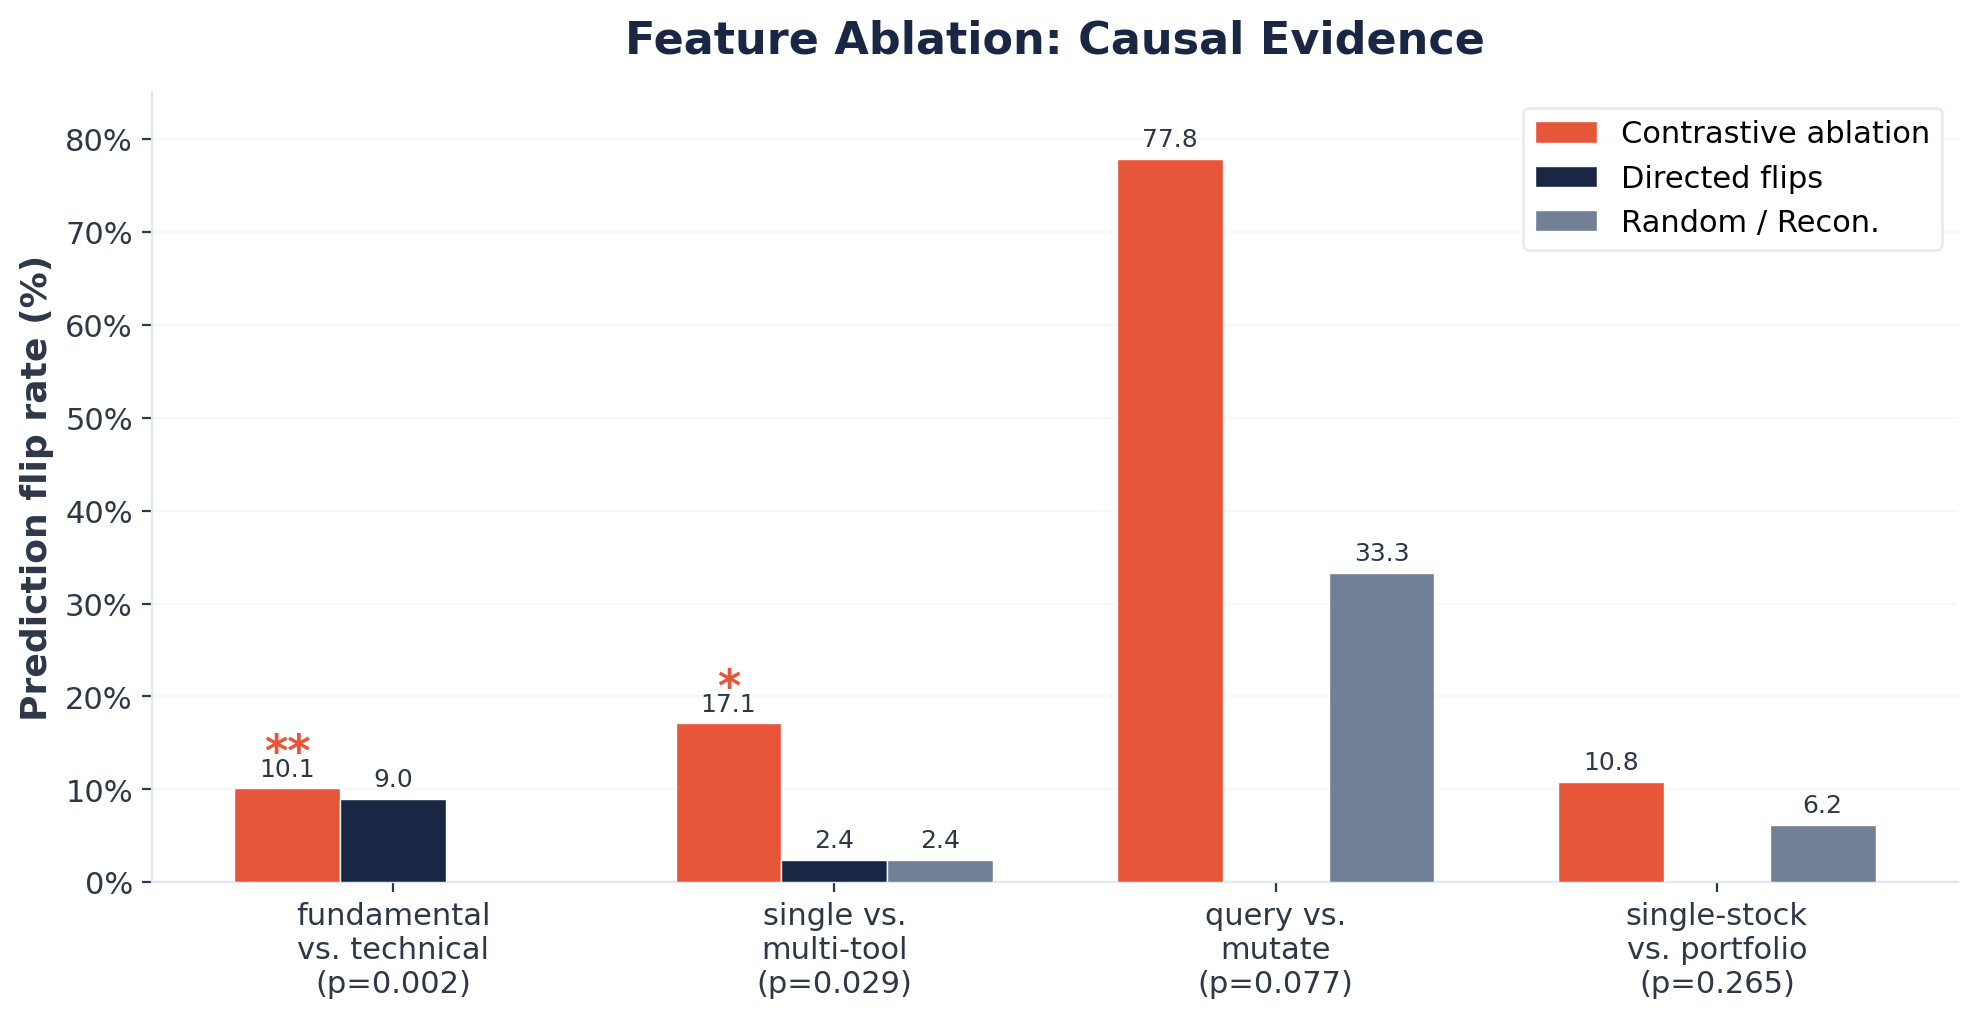
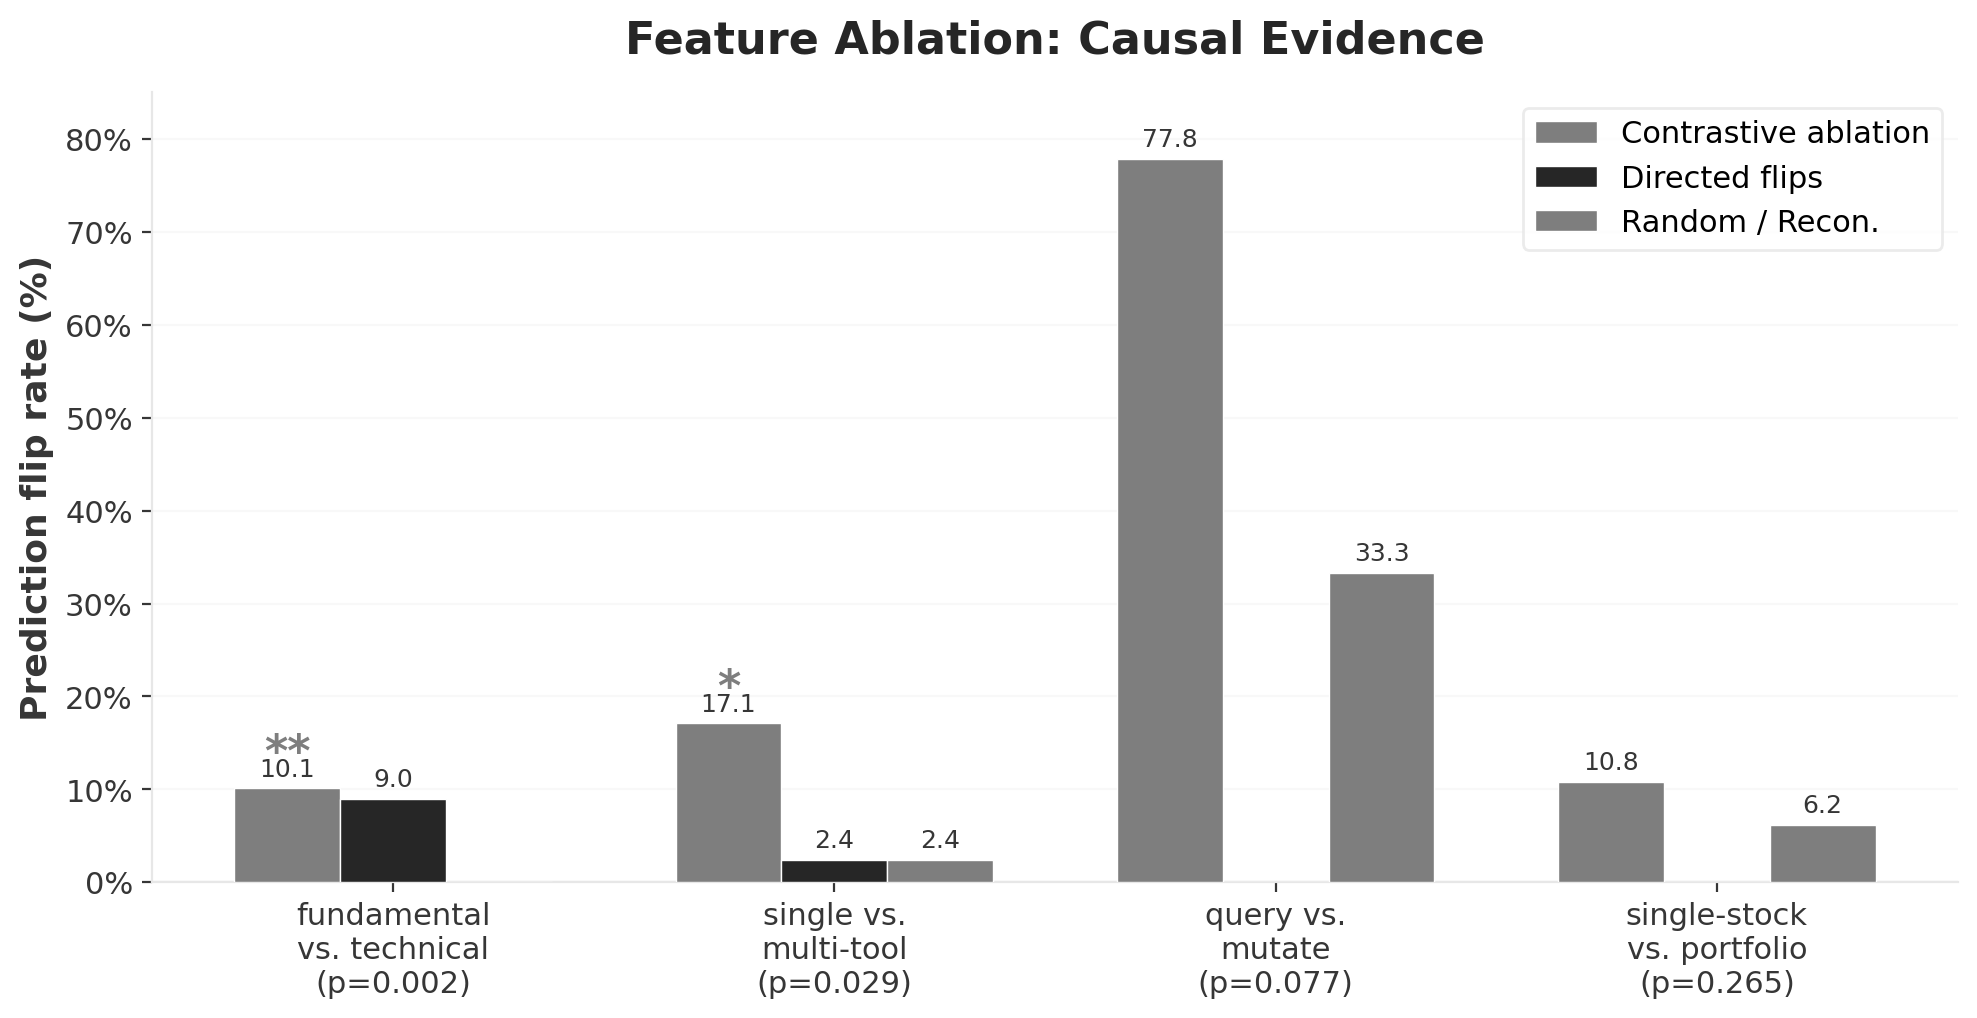
updated paper, support bw, updated figures

diff --git a/paper/render_svgs.py b/paper/render_svgs.py
@@ -5,6 +5,7 @@ Usage:
     python3 render_svgs.py --mode color   # render color PNGs into images/
     python3 render_svgs.py --mode bw       # render grayscale PNGs into images/
 """
+
 import argparse
 import os
 import re
@@ -28,28 +29,27 @@ SVG_NAMES = [
 # Applied in order.  For SVG gradients where two original colours map to the
 # same gray, we handle gradients first with context-aware replacement.
 
-# Gradient-level mapping (id → {original_color: bw_color})
+# Gradient-level mapping (id → {original_color: gray_color})
 GRADIENT_MAP = {
-    "grad-primary": {"#2d4a7a": "#333333", "#1a2744": "#000000"},
-    "grad-accent": {"#ff7b5f": "#999999", "#e8563a": "#666666"},
-    "grad-teal": {"#38b2ac": "#cccccc", "#2c7a7b": "#999999"},
-    "grad-topbar": {"#1a2744": "#000000", "#e8563a": "#666666"},
+    "grad-primary": {"#2d4a7a": "#444444", "#1a2744": "#222222"},
+    "grad-accent": {"#ff7b5f": "#888888", "#e8563a": "#666666"},
+    "grad-teal": {"#38b2ac": "#aaaaaa", "#2c7a7b": "#888888"},
+    "grad-topbar": {"#1a2744": "#222222", "#e8563a": "#666666"},
 }
 
 # Global (non-gradient) replacements — applied after gradient replacement
 # so that gradient stop-colors are already handled.
-# High-contrast BW: dark colors → black, accent → mid-grey, light → near-white.
 GLOBAL_MAP = [
-    ("#2d4a7a", "#333333"),
-    ("#1a2744", "#000000"),
-    ("#ff7b5f", "#999999"),
+    ("#2d4a7a", "#444444"),
+    ("#1a2744", "#222222"),
+    ("#ff7b5f", "#888888"),
     ("#e8563a", "#666666"),
-    ("#38b2ac", "#cccccc"),
-    ("#2c7a7b", "#999999"),
-    ("#cbd5e0", "#e0e0e0"),
-    ("#718096", "#666666"),
-    ("#2d3748", "#222222"),
-    ("#e2e8f0", "#e0e0e0"),
+    ("#38b2ac", "#aaaaaa"),
+    ("#2c7a7b", "#888888"),
+    ("#cbd5e0", "#cccccc"),
+    ("#718096", "#777777"),
+    ("#2d3748", "#333333"),
+    ("#e2e8f0", "#cccccc"),
 ]
 
 # Text-contrast fixes: on light-gray (teal) backgrounds, swap white text to dark.
@@ -58,45 +58,68 @@ CONTRAST_FIXES = {
     # --- training_pipeline ---
     "training_pipeline": [
         # Step 1 – Contrastive Pair Generation (teal box)
-        ('y="76" text-anchor="middle" font-size="12" fill="#ffffff" font-weight="700">Contrastive Pair<',
-         'y="76" text-anchor="middle" font-size="12" fill="#222222" font-weight="700">Contrastive Pair<'),
-        ('y="93" text-anchor="middle" font-size="12" fill="#ffffff" font-weight="700">Generation<',
-         'y="93" text-anchor="middle" font-size="12" fill="#222222" font-weight="700">Generation<'),
-        ('y="113" text-anchor="middle" font-size="9.5" fill="#ffffff" fill-opacity="0.85">500K',
-         'y="113" text-anchor="middle" font-size="9.5" fill="#333333">500K'),
-        ('y="127" text-anchor="middle" font-size="9.5" fill="#ffffff" fill-opacity="0.85">32 tools',
-         'y="127" text-anchor="middle" font-size="9.5" fill="#333333">32 tools'),
+        (
+            'y="76" text-anchor="middle" font-size="12" fill="#ffffff" font-weight="700">Contrastive Pair<',
+            'y="76" text-anchor="middle" font-size="12" fill="#222222" font-weight="700">Contrastive Pair<',
+        ),
+        (
+            'y="93" text-anchor="middle" font-size="12" fill="#ffffff" font-weight="700">Generation<',
+            'y="93" text-anchor="middle" font-size="12" fill="#222222" font-weight="700">Generation<',
+        ),
+        (
+            'y="113" text-anchor="middle" font-size="9.5" fill="#ffffff" fill-opacity="0.85">500K',
+            'y="113" text-anchor="middle" font-size="9.5" fill="#333333">500K',
+        ),
+        (
+            'y="127" text-anchor="middle" font-size="9.5" fill="#ffffff" fill-opacity="0.85">32 tools',
+            'y="127" text-anchor="middle" font-size="9.5" fill="#333333">32 tools',
+        ),
         # Step 8 – Feature Interpretation (teal box)
-        ('y="486" text-anchor="middle" font-size="12" fill="#ffffff" font-weight="700">Feature Interpretation<',
-         'y="486" text-anchor="middle" font-size="12" fill="#222222" font-weight="700">Feature Interpretation<'),
-        ('fill="#ffffff" fill-opacity="0.85">LLM labeling',
-         'fill="#333333">LLM labeling'),
-        ('fill="#ffffff" fill-opacity="0.85">top-20 activating',
-         'fill="#333333">top-20 activating'),
+        (
+            'y="486" text-anchor="middle" font-size="12" fill="#ffffff" font-weight="700">Feature Interpretation<',
+            'y="486" text-anchor="middle" font-size="12" fill="#222222" font-weight="700">Feature Interpretation<',
+        ),
+        ('fill="#ffffff" fill-opacity="0.85">LLM labeling', 'fill="#333333">LLM labeling'),
+        (
+            'fill="#ffffff" fill-opacity="0.85">top-20 activating',
+            'fill="#333333">top-20 activating',
+        ),
     ],
     # --- sae_architecture ---
     "sae_architecture": [
-        ('y="225" text-anchor="middle" font-size="12" fill="#ffffff" font-weight="700">features (sparse)<',
-         'y="225" text-anchor="middle" font-size="12" fill="#222222" font-weight="700">features (sparse)<'),
-        ('fill="#ffffff" fill-opacity="0.9">d_sae = 10,752<',
-         'fill="#333333">d_sae = 10,752<'),
-        ('fill="#ffffff" fill-opacity="0.85">~668 active (~6%)<',
-         'fill="#333333">~668 active (~6%)<'),
+        (
+            'y="225" text-anchor="middle" font-size="12" fill="#ffffff" font-weight="700">features (sparse)<',
+            'y="225" text-anchor="middle" font-size="12" fill="#222222" font-weight="700">features (sparse)<',
+        ),
+        ('fill="#ffffff" fill-opacity="0.9">d_sae = 10,752<', 'fill="#333333">d_sae = 10,752<'),
+        (
+            'fill="#ffffff" fill-opacity="0.85">~668 active (~6%)<',
+            'fill="#333333">~668 active (~6%)<',
+        ),
     ],
     # --- inference_pipeline ---
     "inference_pipeline": [
-        ('y="310" text-anchor="middle" font-size="12" fill="#ffffff" font-weight="700">FEATURE THEMES<',
-         'y="310" text-anchor="middle" font-size="12" fill="#222222" font-weight="700">FEATURE THEMES<'),
-        ('fill="#ffffff" fill-opacity="0.8">pre-computed labels<',
-         'fill="#333333">pre-computed labels<'),
-        ('fill="#ffffff" font-weight="600">"internal data access"<',
-         'fill="#222222" font-weight="600">"internal data access"<'),
-        ('fill="#ffffff" font-weight="600">"financial analysis"<',
-         'fill="#222222" font-weight="600">"financial analysis"<'),
-        ('fill="#ffffff" font-weight="600">"temporal reasoning"<',
-         'fill="#222222" font-weight="600">"temporal reasoning"<'),
-        ('fill="#ffffff" fill-opacity="0.6">...</',
-         'fill="#444444">...</'),
+        (
+            'y="310" text-anchor="middle" font-size="12" fill="#ffffff" font-weight="700">FEATURE THEMES<',
+            'y="310" text-anchor="middle" font-size="12" fill="#222222" font-weight="700">FEATURE THEMES<',
+        ),
+        (
+            'fill="#ffffff" fill-opacity="0.8">pre-computed labels<',
+            'fill="#333333">pre-computed labels<',
+        ),
+        (
+            'fill="#ffffff" font-weight="600">"internal data access"<',
+            'fill="#222222" font-weight="600">"internal data access"<',
+        ),
+        (
+            'fill="#ffffff" font-weight="600">"financial analysis"<',
+            'fill="#222222" font-weight="600">"financial analysis"<',
+        ),
+        (
+            'fill="#ffffff" font-weight="600">"temporal reasoning"<',
+            'fill="#222222" font-weight="600">"temporal reasoning"<',
+        ),
+        ('fill="#ffffff" fill-opacity="0.6">...</', 'fill="#444444">...</'),
     ],
 }
 
@@ -109,11 +132,13 @@ def _replace_gradient_colors(svg_text: str, color_map: dict) -> str:
             rf'(<linearGradient\s+id="{re.escape(grad_id)}"[^>]*>)(.*?)(</linearGradient>)',
             re.DOTALL,
         )
+
         def _repl(m):
             inner = m.group(2)
             for orig, gray in mapping.items():
                 inner = inner.replace(orig, gray)
             return m.group(1) + inner + m.group(3)
+
         svg_text = pattern.sub(_repl, svg_text)
     return svg_text
 
